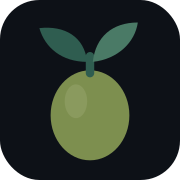
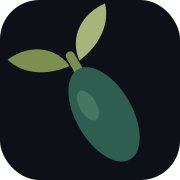
Add four trees as elemental forces, indigenous species philosophy, tilted olive mark

diff --git a/index.html b/index.html
@@ -40,7 +40,8 @@ a:hover{border-bottom-color:var(--adriatic)}
 /* ---------- nav ---------- */
 nav{position:sticky;top:0;z-index:50;background:var(--bg);border-bottom:1px solid var(--line)}
 .navin{max-width:var(--maxw);margin:0 auto;padding:12px 24px;display:flex;align-items:center;gap:22px;flex-wrap:wrap}
-.mark{font-family:var(--mono);font-size:12px;letter-spacing:.16em;text-transform:uppercase;color:var(--text);border:0;white-space:nowrap}
+.mark{font-family:var(--mono);font-size:12px;letter-spacing:.16em;text-transform:uppercase;color:var(--text);border:0;white-space:nowrap;display:flex;align-items:center;gap:9px}
+.mark img{flex:0 0 auto}
 .mark b{color:var(--olive);font-weight:500}
 .navlinks{display:flex;gap:18px;margin-left:auto;flex-wrap:wrap}
 .navlinks a{font-family:var(--mono);font-size:11px;letter-spacing:.12em;text-transform:uppercase;color:var(--muted);border:0}
@@ -154,6 +155,15 @@ figcaption{overflow-wrap:anywhere;font-family:var(--mono);font-size:10.5px;lette
 .phase.now .ph{color:var(--olive)}
 .phase p{font-size:15px;margin:0}
 
+/* four trees */
+.tree{display:grid;grid-template-columns:minmax(0,1fr) minmax(0,1fr);gap:38px;align-items:center;padding:34px 0;border-top:1px solid var(--line)}
+.tree:nth-child(even) .treetext{order:-1}
+.tree .el{font-family:var(--mono);font-size:10px;letter-spacing:.22em;text-transform:uppercase;color:var(--adriatic);margin-bottom:10px}
+.tree h3{margin-bottom:4px}
+.tree .lat{font-family:var(--mono);font-size:11px;color:var(--muted);font-style:normal;margin-bottom:14px}
+.tree p{font-size:15px;margin:0}
+@media(max-width:760px){.tree{grid-template-columns:minmax(0,1fr);gap:18px}.tree:nth-child(even) .treetext{order:0}}
+
 /* portraits */
 .pgrid{display:grid;grid-template-columns:repeat(auto-fit,minmax(170px,1fr));gap:14px;margin-top:30px}
 .pgrid img{border:1px solid var(--line);filter:saturate(.9)}
@@ -173,10 +183,11 @@ footer{padding:56px 0 40px;font-family:var(--mono);font-size:11px;color:var(--mu
 
 <nav>
   <div class="navin">
-    <a href="#top" class="mark">KUKLJICA <b>ECOOASIS</b></a>
+    <a href="#top" class="mark"><img src="img/mark.svg" alt="" width="26" height="26">KUKLJICA <b>ECOOASIS</b></a>
     <div class="navlinks">
       <a href="#land" data-i18n="nav.land"></a>
       <a href="#history" data-i18n="nav.history"></a>
+      <a href="#trees" data-i18n="nav.trees"></a>
       <a href="#method" data-i18n="nav.method"></a>
       <a href="#calendar" data-i18n="nav.calendar"></a>
       <a href="#craft" data-i18n="nav.craft"></a>
@@ -254,6 +265,26 @@ footer{padding:56px 0 40px;font-family:var(--mono);font-size:11px;color:var(--mu
     <figcaption data-i18n="hist.cap"></figcaption>
   </figure>
   <p data-i18n="hist.p3"></p>
+</div></section>
+
+
+<section id="trees"><div class="wrap"><div class="slab"></div>
+  <div class="kicker" data-i18n="tr.kicker"></div>
+  <h2 data-i18n="tr.h"></h2>
+  <p data-i18n="tr.p"></p>
+  <div id="treelist"></div>
+  <div class="note" data-i18n="tr.fifth"></div>
+</div></section>
+
+<section id="philosophy"><div class="wrap"><div class="slab"></div>
+  <div class="kicker" data-i18n="phil.kicker"></div>
+  <h2 data-i18n="phil.h"></h2>
+  <p data-i18n="phil.p1"></p>
+  <blockquote class="pull" data-i18n="phil.pull"></blockquote>
+  <p data-i18n="phil.p2"></p>
+  <p data-i18n="phil.p3"></p>
+  <p data-i18n="phil.p4"></p>
+  <p data-i18n="phil.p5"></p>
 </div></section>
 
 <section id="method"><div class="wrap"><div class="slab"></div>
@@ -493,6 +524,19 @@ en:{
 "water.cap2":"The shallows on the west side. The dark patches are seagrass, and the pale rim is limestone that holds no water at all.",
 "craft.cap2":"The stone rim of the shore. Every wall on the parcel was built from this, gathered by hand where it lay.",
 "live.cap2":"The few houses at the shore. This is the whole of the built landscape here, and it is meant to stay that way.",
+"nav.trees":"Four trees",
+"tr.kicker":"Four trees",
+"tr.h":"Four trees, four forces on the same ground",
+"tr.p":"These four carry the project. Not because they are the only species going in, but because each one solves a different problem that this land sets, and between them they cover the whole of it. Every one of them was growing here long before anyone wrote anything down.",
+"tr.fifth":"The fifth is not a tree. It is the bee, which visits all four and holds the year together, and it is the reason the calendar on this site exists at all.",
+"phil.kicker":"Why indigenous",
+"phil.h":"We grow forward out of what was already here",
+"phil.p1":"There is a way of farming that needs constant support. You bring in a species that did not evolve here, and then you spend the rest of your life defending it. Water it, feed it, spray it, replace it. The plant never settles, the soil never builds, and the work never ends. That is not agriculture, it is life support.",
+"phil.pull":"When an old olive sends a shoot up from its stump, it is not a new tree. It is a new expression of the same genotype.",
+"phil.p2":"An indigenous species asks for none of that. It has spent thousands of years being selected by exactly this rainfall, this thin soil, this wind and these pests. It knows the summer is coming. Everything it needs is already written into it. You plant it, you protect it for two or three years, and then it takes over its own life.",
+"phil.p3":"That is why the olive is the mark of this project. In its natural state an olive never really dies of age. When the trunk goes hollow or burns or is cut, shoots rise from the stump and the tree continues, the same individual carrying on under a new shape. That is the whole argument in one plant: you do not start again from nothing, you grow forward out of what was already here.",
+"phil.p4":"Sadhana Forest showed this on the other side of the world. In 2003 Aviram and Yorit Rozin sold their house in Israel and moved with their baby daughter onto seventy acres of eroded, barren ground outside Auroville, to bring back the Tropical Dry Evergreen Forest, of which less than one hundredth of a percent still stands. Nothing was watered permanently. They worked the water first, slowing it, spreading it, sinking it into the ground instead of letting the monsoon run straight off bare land into the sea. Then they planted indigenous species and nothing else, tens of thousands of them across a hundred and sixty species.",
+"phil.p5":"The thing worth repeating is what happened next. The forest began planting itself. Birds and animals came back, carried seed, and now for every tree that gets planted by hand the forest raises several of its own. That is what an ecosystem does once you stop fighting it and give it back its own species. It stops being a project and becomes a place. That is what we are after here, on seven hectares of Croatian karst, with olive and almond and fig and holm oak instead of tropical dry evergreen, and with the same simple discipline: water first, indigenous species only, and enough patience to let the land do most of the work.",
 "nav.land":"The land","nav.history":"History","nav.method":"Method","nav.calendar":"Calendar",
 "nav.craft":"Stone and craft","nav.living":"Living here","nav.who":"Who","nav.join":"Join",
 
@@ -605,6 +649,19 @@ hr:{
 "water.cap2":"Plićina sa zapadne strane. Tamne mrlje su morska trava, a svijetli rub je vapnenac koji ne drži ni kap vode.",
 "craft.cap2":"Kameni rub obale. Svaki suhozid na čestici sagrađen je od ovoga, skupljenog rukom ondje gdje je ležao.",
 "live.cap2":"Ono malo kuća uz obalu. To je cijeli izgrađeni krajolik ovdje i namjera je da tako i ostane.",
+"nav.trees":"Četiri stabla",
+"tr.kicker":"Četiri stabla",
+"tr.h":"Četiri stabla, četiri sile na istom tlu",
+"tr.p":"Ova četiri nose projekt. Ne zato što su jedine vrste koje idu u zemlju, nego zato što svako rješava drugi problem koji ova zemlja postavlja, a zajedno pokrivaju cijeli. Sva četiri rasla su ovdje davno prije nego je itko išta zapisao.",
+"tr.fifth":"Peta nije stablo. To je pčela, koja obilazi sva četiri i drži godinu na okupu, i zbog nje kalendar na ovoj stranici uopće postoji.",
+"phil.kicker":"Zašto autohtono",
+"phil.h":"Rastemo naprijed iz onoga što je već bilo ovdje",
+"phil.p1":"Postoji način poljoprivrede koji traži stalnu podršku. Dovedeš vrstu koja se ovdje nije razvila, i onda ostatak života provedeš braneći je. Zalij, nahrani, poprskaj, zamijeni. Biljka se nikad ne primi, tlo se nikad ne izgradi, a posao nikad ne prestane. To nije poljoprivreda, to je održavanje na aparatima.",
+"phil.pull":"Kad stara maslina istjera mladicu iz panja, to nije novo stablo. To je novi izraz istog genotipa.",
+"phil.p2":"Autohtona vrsta ne traži ništa od toga. Tisućama godina birala ju je upravo ova kiša, ovo tanko tlo, ovaj vjetar i ovi nametnici. Ona zna da ljeto dolazi. Sve što joj treba već je zapisano u njoj. Posadiš je, čuvaš dvije ili tri godine, i onda preuzme vlastiti život.",
+"phil.p3":"Zato je maslina znak ovog projekta. U prirodnom stanju maslina zapravo nikad ne umire od starosti. Kad se deblo izduplji, izgori ili ga posijeku, iz panja se dižu mladice i stablo se nastavlja, isti pojedinac u novom obliku. To je cijeli argument u jednoj biljci: ne kreće se ispočetka iz ničega, nego se raste naprijed iz onoga što je već bilo ovdje.",
+"phil.p4":"Sadhana Forest to je pokazao na drugom kraju svijeta. Aviram i Yorit Rozin prodali su 2003. kuću u Izraelu i s malom kćeri se preselili na sedamdeset jutara erodiranog, golog tla kraj Auroville, da vrate tropsku suhu zimzelenu šumu, koje je preostalo manje od jedne stotinke postotka. Ništa se nije trajno navodnjavalo. Prvo su radili na vodi, usporavali je, razvlačili i upijali u zemlju umjesto da monsun otječe s gole zemlje ravno u more. Tek onda su sadili, i to isključivo autohtone vrste, desetke tisuća sadnica u sto šezdeset vrsta.",
+"phil.p5":"Ono što vrijedi ponoviti je što se dogodilo poslije. Šuma se počela saditi sama. Vratile su se ptice i životinje, raznijele sjeme, i danas na svako stablo posađeno rukom šuma podigne još nekoliko svojih. To ekosustav radi čim mu prestaneš smetati i vratiš mu njegove vrste. Prestaje biti projekt i postaje mjesto. To i mi tražimo ovdje, na sedam hektara hrvatskog krša, s maslinom, bademom, smokvom i crnikom umjesto tropske zimzelene šume, i s istom jednostavnom disciplinom: prvo voda, samo autohtone vrste, i dovoljno strpljenja da zemlja odradi najveći dio posla.",
 "nav.land":"Zemlja","nav.history":"Povijest","nav.method":"Metoda","nav.calendar":"Kalendar",
 "nav.craft":"Kamen i zanat","nav.living":"Život ovdje","nav.who":"Tko","nav.join":"Pridruži se",
 
@@ -830,6 +887,24 @@ const CVFACTS=[
 ["4 awards","4 nagrade","Croatian Film and Video Review 2008, International Minute Movie Cup 2002, Arena audience award 2002, KRAF special diploma for editing 2001.","Revija hrvatskog filma i videa 2008., International Minute Movie Cup 2002., nagrada publike Arena 2002., posebna diploma za montažu KRAF 2001."],
 ["Engineering","Inženjerstvo","Diploma in electrical engineering and industrial electronics, 1999. Certified system and network administrator, 2004.","Inženjerska diploma iz elektrotehnike i industrijske elektronike, 1999. Certificirani sistem i mrežni administrator, 2004."]];
 
+
+const TREES=[
+["earth","zemlja","Olive","Maslina","Olea europaea","tree-olive.jpg",
+ "It makes food out of bare rock. Deep roots go down into the fissures of the karst where nothing else reaches, waxy leaves hold water back, and the tree keeps working at soil moisture levels that would stop almost anything else. Most of the olives standing here are not dead, only overgrown. They need cutting, not replacing.",
+ "Od golog kamena pravi hranu. Duboko korijenje ide u pukotine krša do kojih ništa drugo ne dopire, voštani list zadržava vodu, a stablo radi i pri vlažnosti tla na kojoj bi gotovo sve drugo stalo. Većina ovdašnjih maslina nije mrtva, samo zarasla. Njima treba rezidba, ne zamjena."],
+
+["air","zrak","Almond","Badem","Prunus dulcis","tree-almond.jpg",
+ "It opens the year. Almond flowers in month 2, on bare wood, before any leaf and before anything else on this coast is awake. That blossom is the first real forage of the season and it decides whether the bees come through the end of winter in good order. Where the almond stands, the year has a beginning.",
+ "Ono otvara godinu. Badem cvate u 2. mjesecu, na golom drvu, prije ijednog lista i prije nego se išta drugo na ovoj obali probudi. Taj cvat je prva prava paša u sezoni i on odlučuje hoće li pčele izaći iz zime u dobrom stanju. Gdje stoji badem, godina ima početak."],
+
+["water","voda","Fig","Smokva","Ficus carica","tree-fig.jpg",
+ "It finds the water that is there. A fig will root into a gap in a dry stone wall and follow the damp down through the joints, living off moisture no measurement would call a supply. Its fruit dries well and keeps through winter without a jar or a freezer, which is why every old house here had one.",
+ "Ona nalazi vodu koja postoji. Smokva se ukorijeni u pukotinu suhozida i prati vlagu kroz sljubnice, živeći od vode koju nijedno mjerenje ne bi nazvalo zalihom. Plod joj se dobro suši i drži kroz zimu bez staklenke i bez zamrzivača, zato je uz svaku staru kuću ovdje stajala jedna."],
+
+["fire","vatra","Holm oak","Crnika","Quercus ilex","tree-oak.jpg",
+ "It answers the sun. This is the tree the whole coast was made of before it was cut, and its dense evergreen canopy turns hard Mediterranean light into deep shade. Under that shade the ground stays cool, moisture stays in the soil, and the understorey of myrtle and strawberry tree can live. Unlike the pine that replaced it, it does not carry fire.",
+ "Ona odgovara suncu. To je stablo od kojeg je bila cijela ova obala prije nego je posječena, a njezina gusta zimzelena krošnja tvrdo mediteransko svjetlo pretvara u dubok hlad. Pod tim hladom tlo ostaje hladno, vlaga ostaje u zemlji, a podrast mirte i planike može živjeti. Za razliku od bora koji ju je zamijenio, ona ne nosi vatru."]];
+
 /* ============================ render ============================ */
 let lang = (new URLSearchParams(location.search).get('lang')) ||
            (()=>{try{return localStorage.getItem('kel')}catch(e){return null}})() ||
@@ -851,6 +926,16 @@ function build(){
     arr.map(r=>`<li><b>${L(r[0],r[1])}</b><span>${L(r[2],r[3])}</span></li>`).join('');
   rows(WATERL,'waterlist'); rows(FOODL,'foodlist'); rows(CRAFTL,'craftlist');
   rows(TESTL,'testlist'); rows(LIVEL,'livelist'); rows(JOINL,'joinlist'); rows(CVFACTS,'cvfacts');
+  document.getElementById('treelist').innerHTML = TREES.map(t=>
+    `<div class="tree">
+       <figure><img src="img/${t[5]}" alt="${t[2]}" loading="lazy"></figure>
+       <div class="treetext">
+         <div class="el">${L(t[0],t[1])}</div>
+         <h3>${L(t[2],t[3])}</h3>
+         <div class="lat">${t[4]}</div>
+         <p>${L(t[6],t[7])}</p>
+       </div>
+     </div>`).join('');
 
   document.getElementById('phaselist').innerHTML = PHASES.map(p=>
     `<div class="phase${p[4]?' now':''}"><div class="ph">${L(p[0],p[1])}</div><p>${L(p[2],p[3])}</p></div>`).join('');
